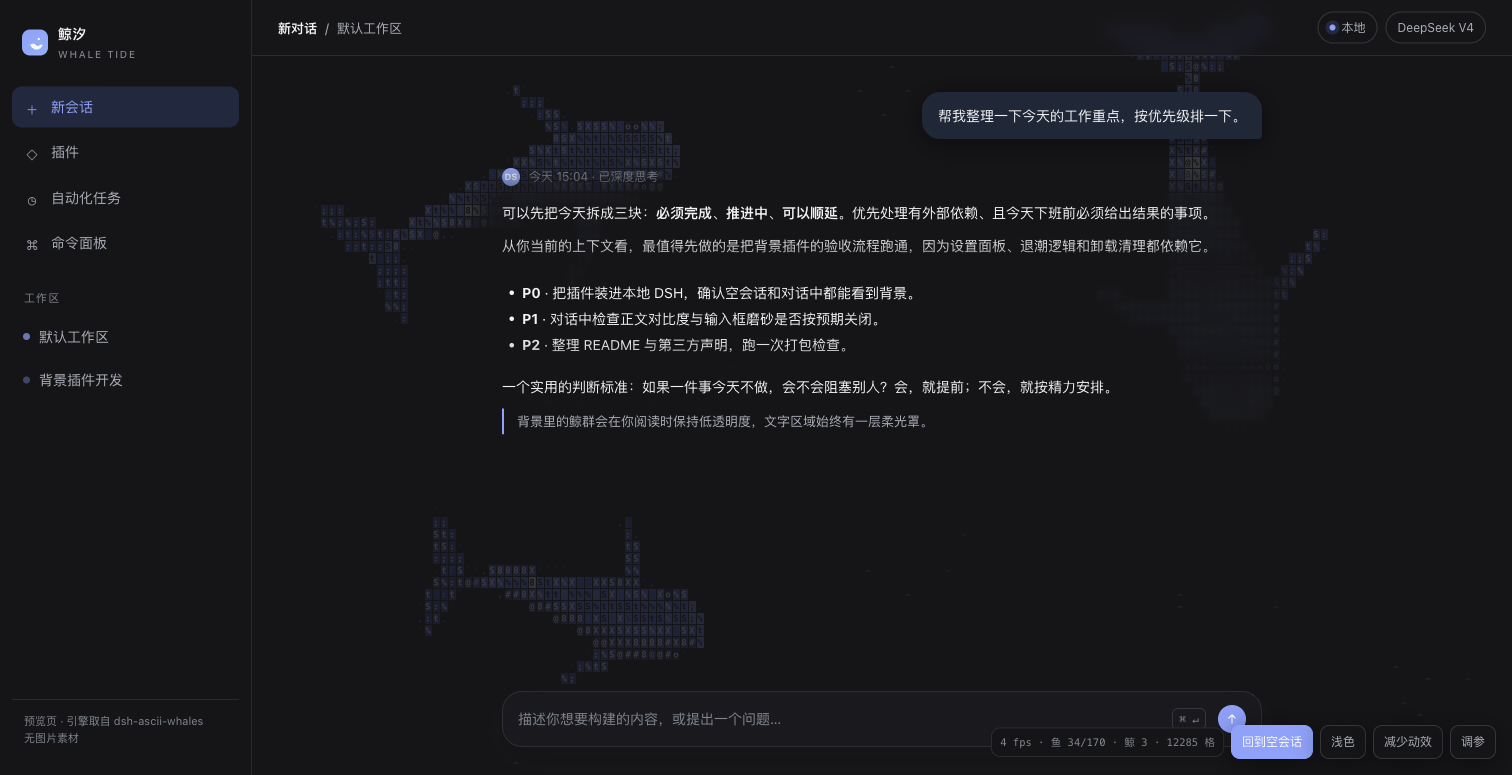
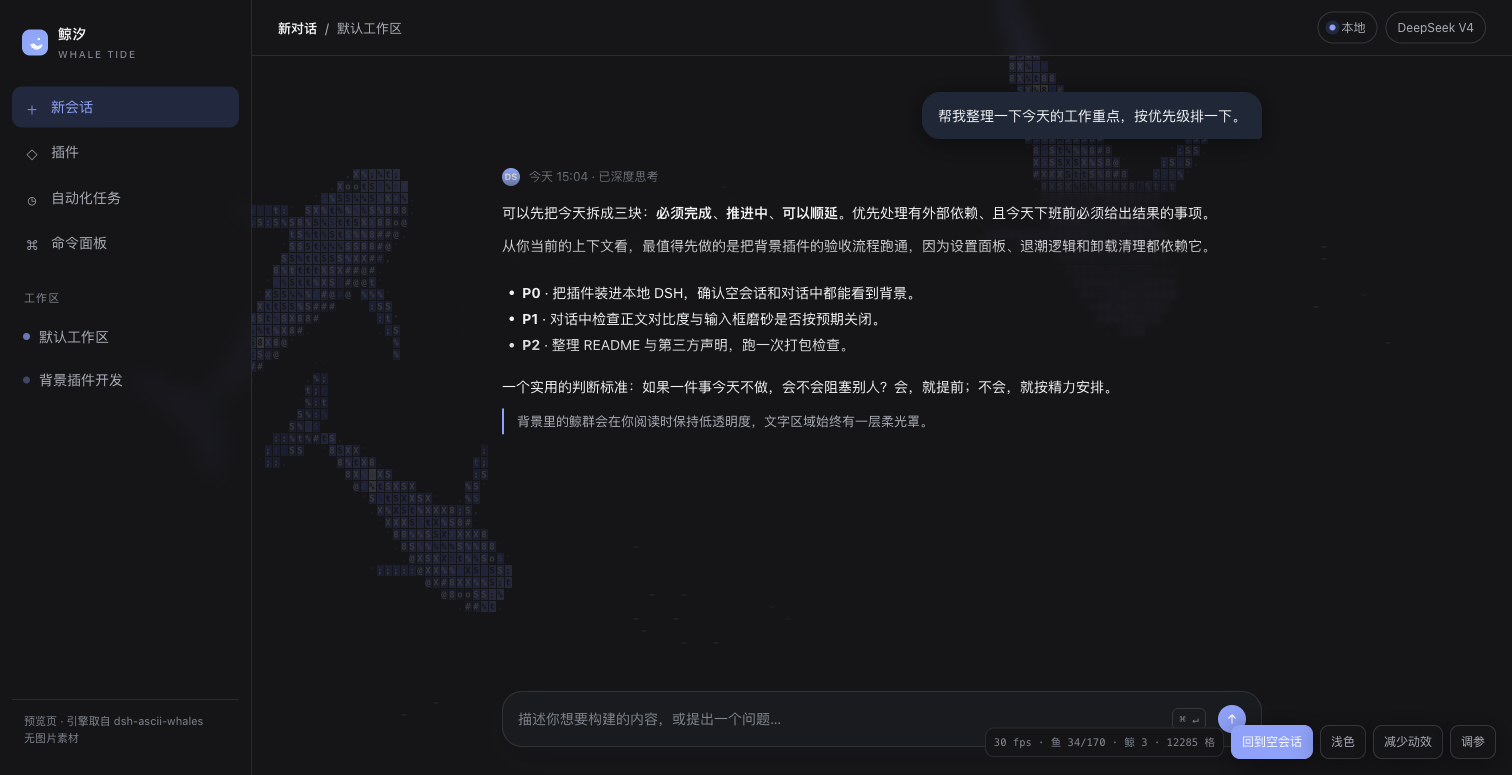
feat: conversation readability with dsh-quiet surface tokens and prose halo (0.3.0)

diff --git a/lib/client.js b/lib/client.js
@@ -2702,7 +2702,7 @@ var OceanEngine = class {
       hintGridOpacity: "背景网格透明度",
       hintFishCount: "模拟的鱼群总数",
       hintGlyphMode: "ASCII 用等宽字符，汉字用衬线汉字",
-      hintGlass: "空会话中给输入框加磨砂",
+      hintGlass: "空会话与对话中给输入框加磨砂",
       hintBlur: "磨砂模糊半径",
       hintGlassOpacity: "磨砂底色不透明度",
       reset: "恢复默认",
@@ -2771,7 +2771,7 @@ var OceanEngine = class {
       hintGridOpacity: "Background grid opacity.",
       hintFishCount: "Total simulated fish.",
       hintGlyphMode: "ASCII uses monospace; Hanzi uses a serif CJK face.",
-      hintGlass: "Frost the composer in an empty conversation.",
+      hintGlass: "Frost the composer in both the empty and conversation states.",
       hintBlur: "Backdrop blur radius.",
       hintGlassOpacity: "Tint opacity behind the composer.",
       reset: "Restore defaults",
@@ -2826,6 +2826,39 @@ var OceanEngine = class {
      * Styles
      * ===================================================================*/
     const CSS_ID = "dsh-whale-tide/client.css";
+
+    /**
+     * Surface tokens used while the tide is in. Same set as dsh-quiet 0.3.0:
+     * the conversation base goes transparent, cards become lightly frosted,
+     * and menus stay opaque for readability.
+     */
+    const TOKENS = {
+      "--dsw-alias-bg-base": { light: "transparent", dark: "transparent" },
+      "--dsw-alias-bg-layer-1": { light: "rgba(255,255,255,0.84)", dark: "rgba(23,24,28,0.88)" },
+      "--dsw-alias-bg-layer-2": { light: "#f7f8f9", dark: "#1b1d21" },
+      "--dsw-alias-bg-layer-3": { light: "#ffffff", dark: "#202226" },
+      "--dsw-specific-sidebar-fill": { light: "rgba(255,255,255,0.55)", dark: "rgba(20,21,24,0.60)" },
+      "--dsw-specific-bubble": { light: "rgba(237,243,254,0.92)", dark: "rgba(44,44,46,0.90)" },
+      "--dsw-alias-label-primary": { light: "#1f2329", dark: "#e6e7ea" },
+      "--dsw-alias-label-secondary": { light: "#5b6472", dark: "#a6acb6" },
+      "--dsw-alias-label-tertiary": { light: "#7c8593", dark: "#878d97" },
+      "--dsw-alias-label-caption": { light: "#98a0ac", dark: "#71767f" },
+      "--dsw-alias-border-l1": { light: "rgba(31,35,41,0.08)", dark: "rgba(230,231,234,0.08)" },
+      "--dsw-alias-border-l2": { light: "rgba(31,35,41,0.12)", dark: "rgba(230,231,234,0.12)" },
+      "--dsw-alias-border-l3": { light: "rgba(31,35,41,0.18)", dark: "rgba(230,231,234,0.16)" },
+      "--dsw-alias-interactive-bg-hover": { light: "rgba(31,35,41,0.05)", dark: "rgba(230,231,234,0.06)" },
+    };
+
+    function installTokens(ctx) {
+      try {
+        const theme = ctx && typeof ctx.get === "function" ? ctx.get("theme") : null;
+        if (theme && typeof theme.overrideTokens === "function" && typeof ctx.effect === "function") {
+          ctx.effect(() => theme.overrideTokens("dsh-whale-tide", TOKENS), "dsh-whale-tide: palette");
+        }
+      } catch (error) {
+        console.warn("[dsh-whale-tide] token override unavailable; CSS fallback in use");
+      }
+    }
     const CSS = `
 /* ── the fixed ocean layer ───────────────────────────────────────────── */
 .dsh-whale-tide-backdrop{
@@ -2902,14 +2935,54 @@ body[data-dsh-whale-tide="on"][data-dsh-whale-tide-ui="dark"][data-dsh-whale-tid
   text-shadow:0 0 2px rgba(12,12,15,.82),0 0 16px rgba(12,12,15,.62);
 }
 
-/* A soft halo on conversation text while the tide is out. */
-body[data-dsh-whale-tide="on"][data-dsh-whale-tide-phase="active"] [data-conversation-content][data-conversation-region="chat"],
-body[data-dsh-whale-tide="on"][data-dsh-whale-tide-phase="active"] [data-conversation-content] [data-conversation-region="chat"]{
-  text-shadow:0 0 1px rgba(255,255,255,.92),0 0 10px rgba(255,255,255,.78),0 0 26px rgba(255,255,255,.38);
+/* The conversation reading surface: a local halo panel behind each assistant
+   message block, the same mechanism as dsh-quiet's .dshr_text::before block.
+   It is applied by tagProse() in the backdrop controller, so it follows
+   re-renders and never touches message markup. */
+body[data-dsh-whale-tide="on"][data-dsh-whale-tide-phase="active"] .dshwt-prose{
+  position:relative;isolation:isolate;
 }
-body[data-dsh-whale-tide="on"][data-dsh-whale-tide-ui="dark"][data-dsh-whale-tide-phase="active"] [data-conversation-content][data-conversation-region="chat"],
-body[data-dsh-whale-tide="on"][data-dsh-whale-tide-ui="dark"][data-dsh-whale-tide-phase="active"] [data-conversation-content] [data-conversation-region="chat"]{
-  text-shadow:0 0 1px rgba(21,21,23,.92),0 0 10px rgba(21,21,23,.8),0 0 26px rgba(21,21,23,.5);
+body[data-dsh-whale-tide="on"][data-dsh-whale-tide-phase="active"] .dshwt-prose::before{
+  content:"";position:absolute;inset:-7px -12px;z-index:-1;border-radius:14px;
+  background:rgba(255,255,255,.70);
+  box-shadow:0 0 22px 12px rgba(255,255,255,.62);
+  -webkit-backdrop-filter:blur(2px);backdrop-filter:blur(2px);
+  pointer-events:none;
+}
+body[data-dsh-whale-tide="on"][data-dsh-whale-tide-ui="dark"][data-dsh-whale-tide-phase="active"] .dshwt-prose::before{
+  background:rgba(20,21,24,.72);
+  box-shadow:0 0 22px 12px rgba(20,21,24,.64);
+}
+/* A hairline shadow keeps un-tagged text (tool cards, actions) crisp without
+   the old 26px glow that made whole paragraphs look out of focus. */
+body[data-dsh-whale-tide="on"][data-dsh-whale-tide-phase="active"] [data-conversation-content][data-conversation-region="chat"]{
+  text-shadow:0 0 1px rgba(255,255,255,.55);
+}
+body[data-dsh-whale-tide="on"][data-dsh-whale-tide-ui="dark"][data-dsh-whale-tide-phase="active"] [data-conversation-content][data-conversation-region="chat"]{
+  text-shadow:0 0 1px rgba(10,10,12,.55);
+}
+
+/* ── composer and popovers while a conversation is active ──────────────
+   dsh-quiet keeps a light frosted composer in conversation instead of
+   handing it back to the native opaque surface. */
+body[data-dsh-whale-tide="on"][data-dsh-whale-tide-phase="active"][data-dsh-whale-tide-glass="on"] [data-composer-card]{
+  background:rgba(255,255,255,.74);
+  -webkit-backdrop-filter:blur(3px);backdrop-filter:blur(3px);
+}
+body[data-dsh-whale-tide="on"][data-dsh-whale-tide-ui="dark"][data-dsh-whale-tide-phase="active"][data-dsh-whale-tide-glass="on"] [data-composer-card]{
+  background:rgba(27,28,32,.78);
+}
+/* The "+" and command popover share this menu; it must stay opaque. */
+body[data-dsh-whale-tide="on"] [data-trigger-menu]{
+  --dsw-specific-menu:#fff;background-color:#fff;
+}
+body[data-dsh-whale-tide="on"][data-dsh-whale-tide-ui="dark"] [data-trigger-menu]{
+  --dsw-specific-menu:#1b1c20;background-color:#1b1c20;
+}
+/* 0.5px is one physical pixel at DPR>=2 (1px renders as two). */
+@media (-webkit-min-device-pixel-ratio:2),(min-resolution:2dppx){
+  body[data-dsh-whale-tide="on"] [data-composer-card],
+  body[data-dsh-whale-tide="on"] [data-trigger-menu]{border-width:.5px}
 }
 
 /* ── settings section ───────────────────────────────────────────────── */
@@ -3064,6 +3137,7 @@ body[data-dsh-whale-tide="on"][data-dsh-whale-tide-ui="dark"][data-dsh-whale-tid
       let motionQuery = null;
       let unsubscribe = null;
       let lastSettings = store.get();
+      let proseAt = 0;
 
       const themeService = (() => {
         try {
@@ -3148,6 +3222,35 @@ body[data-dsh-whale-tide="on"][data-dsh-whale-tide-ui="dark"][data-dsh-whale-tid
         ocean = null;
       }
 
+      /**
+       * Tag each assistant message wrapper with .dshwt-prose so CSS can put a
+       * local halo behind it (dsh-quiet's .dshr_text mechanism, without taking
+       * over message rendering). Works structurally: climb from any prose
+       * anchor to the child of [data-slot="conversation.chat.node"].
+       */
+      function tagProse() {
+        if (disposed) return;
+        const now = performance.now();
+        if (now - proseAt < 250) return;
+        proseAt = now;
+        const root = findChatNode();
+        if (!root) return;
+        const flow = root.querySelector('[data-slot="conversation.chat.flow"]') || root;
+        const anchors = flow.querySelectorAll("p, li, pre, table, blockquote, h1, h2, h3, h4, h5, h6");
+        for (const anchor of anchors) {
+          if (anchor.closest('[data-slot="conversation.chat.turnTail"]')) continue;
+          let cur = anchor;
+          while (cur && cur !== flow) {
+            const parent = cur.parentElement;
+            if (parent && parent.getAttribute && parent.getAttribute("data-slot") === "conversation.chat.node") {
+              if (!cur.classList.contains("dshwt-prose")) cur.classList.add("dshwt-prose");
+              break;
+            }
+            cur = parent;
+          }
+        }
+      }
+
       function syncAll() {
         if (disposed) return;
         const settings = store.get();
@@ -3167,6 +3270,7 @@ body[data-dsh-whale-tide="on"][data-dsh-whale-tide-ui="dark"][data-dsh-whale-tid
         if (ocean) ocean.setSettings(settings);
         if (ocean) ocean.setPhase(phase);
         if (ocean) ocean.setTheme(oceanScheme);
+        if (phase === "active") tagProse();
       }
 
       function applyPhase() {
@@ -3178,6 +3282,7 @@ body[data-dsh-whale-tide="on"][data-dsh-whale-tide-ui="dark"][data-dsh-whale-tid
           applyAttrs();
         }
         applyOpacity();
+        if (phase === "active") tagProse();
       }
 
       function onStoreChange() {
@@ -3286,6 +3391,7 @@ body[data-dsh-whale-tide="on"][data-dsh-whale-tide-ui="dark"][data-dsh-whale-tid
         if (unsubscribe) unsubscribe();
         destroyOcean();
         layer.remove();
+        for (const node of document.querySelectorAll(".dshwt-prose")) node.classList.remove("dshwt-prose");
         const body = document.body;
         body.style.removeProperty("--dshwt-blur");
         body.style.removeProperty("--dshwt-glass-opacity");
@@ -3482,6 +3588,7 @@ body[data-dsh-whale-tide="on"][data-dsh-whale-tide-ui="dark"][data-dsh-whale-tid
     function apply(ctx) {
       installStyles(ctx);
       installLocale(ctx);
+      installTokens(ctx);
 
       const store = createStore();
 

diff --git a/tools/preview.html b/tools/preview.html
@@ -92,6 +92,8 @@
   .stage[data-phase="hero"] .composer .box{background:rgba(255,255,255,var(--dshwt-glass-opacity,.45));backdrop-filter:blur(var(--dshwt-blur,14px)) saturate(1.12);-webkit-backdrop-filter:blur(var(--dshwt-blur,14px)) saturate(1.12);border-color:var(--glass-line)}
   html[data-theme="dark"] .stage[data-phase="hero"] .composer .box{background:rgba(24,24,26,var(--dshwt-glass-opacity,.45))}
   .stage[data-phase="hero"][data-glass="0"] .composer .box{background:var(--composer-bg);backdrop-filter:none;-webkit-backdrop-filter:none;border-color:var(--composer-line)}
+  .stage[data-phase="active"][data-glass="1"] .composer .box{background:rgba(255,255,255,.74);backdrop-filter:blur(3px);-webkit-backdrop-filter:blur(3px);border-color:var(--glass-line)}
+  html[data-theme="dark"] .stage[data-phase="active"][data-glass="1"] .composer .box{background:rgba(27,28,32,.78);border-color:rgba(255,255,255,.10)}
   .composer .box .ph{color:var(--ink3);flex:1;font-size:14px}
   .composer .box .kbd{font-size:11px;color:var(--ink3);border:1px solid var(--line2);border-radius:6px;padding:1px 6px;font-family:var(--mono)}
   .send{width:28px;height:28px;border-radius:50%;background:var(--accent);display:grid;place-items:center;color:#fff;flex:none}

diff --git a/lib/settings.js b/lib/settings.js
@@ -128,7 +128,7 @@ export const HINTS = Object.freeze({
   gridOpacity: "Background grid opacity.",
   fishCount: "Total simulated fish.",
   glyphMode: "ASCII uses monospace; Hanzi uses a serif CJK face.",
-  glass: "Frost the composer in an empty conversation.",
+  glass: "Frost the composer in both the empty and conversation states.",
   blur: "Backdrop blur radius.",
   glassOpacity: "Tint opacity behind the composer.",
 });

diff --git a/README.en.md b/README.en.md
@@ -34,9 +34,13 @@ the empty conversation the fish swim back in from the edges.
   limit; Reynolds boids with an `Int32Array` spatial hash. Fish scatter around
   the whale and the pointer, then regroup.
 - **High tide / ebb tide** — `hero`: full opacity, all fish, frosted composer.
-  `active` uses dsh-quiet's full-window ebb: opacity falls to 16%, 30% of the
-  fish remain, the composer returns to native, and conversation text gets a
-  soft inherited halo.
+  `active` uses dsh-quiet's full-window ebb: opacity falls to 16% and 30% of
+  the fish remain.
+- **Conversation readability** — 14 host surface tokens (bg layers, bubble,
+  borders, labels) become lightly translucent, each assistant message gets a
+  local `.dshwt-prose` halo panel (::before + 2px blur), the composer keeps a
+  0.74/0.78 frosted tint with 3px blur, popovers stay opaque and borders are
+  0.5px at DPR>=2.
 - **Configurable** — exactly eight settings, applied live, saved in
   `localStorage`, with a restore-defaults button.
 - **Light / dark** — following the DSH theme switches the backdrop colour,
@@ -69,11 +73,11 @@ From npm (once published):
 dsh plugin --profile <your-profile> add dsh-whale-tide
 ```
 
-From the 0.2.1 GitHub Release tarball:
+From the 0.3.0 GitHub Release tarball:
 
 ```bash
 dsh plugin --profile <your-profile> add \
-  https://github.com/MinEagle/dsh-whale-tide/releases/download/v0.2.1/dsh-whale-tide-0.2.1.tgz
+  https://github.com/MinEagle/dsh-whale-tide/releases/download/v0.3.0/dsh-whale-tide-0.3.0.tgz
 ```
 
 From a local checkout:
@@ -142,7 +146,7 @@ Four groups; changes apply live, persist in `localStorage`
 
 | Setting | Default | Range | Notes |
 | --- | --- | --- | --- |
-| Frosted composer | on | on / off | High tide only; disabled while active |
+| Frosted composer | on | on / off | Both states; lighter 0.74/0.78 tint while active |
 | Glass blur | 14 px | 0–64 | Backdrop blur radius |
 | Glass opacity | 0.45 | 0–1 | Tint opacity |
 
@@ -251,7 +255,7 @@ See [docs/design.md](docs/design.md).
   the `hero` state instead of breaking.
 - The UI exposes 24 settings from upstream; internal steering and hunger
   constants stay in the engine.
-- 0.2.1 is available as a GitHub Release tarball but not yet on the npm
+- 0.3.0 is available as a GitHub Release tarball but not yet on the npm
   registry; the repository also includes a local directory install and a
   packed `dist/*.tgz`.
 

diff --git a/docs/pitfalls.md b/docs/pitfalls.md
@@ -375,3 +375,34 @@ return luminance < .45 ? "dark" : "light";
 验证：真实 DSH 中把「字符风格」切到汉字后，canvas 字体为
 `"Songti SC","Noto Serif SC",…serif`，层属性 `data-glyph="hanzi"`，画布按方
 格重排（12285 → 11856 格），恢复默认后回到 ASCII 与等宽字体。
+
+## 27. 对话里「只透了一层」：气泡/卡片/输入框仍是白块（用户反馈）
+
+0.2.x 的退潮只做了两件事：`--dsw-alias-bg-base: transparent` + 整个 chat 容器
+`text-shadow`。实测对话中：
+
+- `--dsw-alias-bg-layer-1` 仍是 `#fff`，卡片、工具卡是不透明白块；
+- 用户气泡 `#edf3fe`、输入框 `rgb(255,255,255)` 都不透；
+- 26px 的白色 text-shadow 对大块蓝色鲸鱼几乎无效，文字反而发虚。
+
+0.3.0 按 dsh-quiet 的做法补齐三层：14 个主题 token（`theme.overrideTokens`，
+卸载还原）、每条助手消息的 `.dshwt-prose` 局部柔光片（::before + blur 2px）、
+对话中的 0.74/0.78 轻磨砂输入框与不透明弹层。
+
+验证：对话中 `--dsw-alias-bg-layer-1` = `rgba(255,255,255,0.84)`（深色
+`rgba(23,24,28,0.88)`），气泡 `rgba(237,243,254,0.92)`，composer
+`rgba(255,255,255,0.74)` + `blur(3px)`，`.dshwt-prose::before` 为白 0.70 +
+`blur(2px)`；关闭插件后全部回到原生值，`.dshwt-prose` 归零。
+
+## 28. 给消息挂 class 不能靠哈希类名
+
+DSH 的 class 是 CSS Modules 哈希（`XNZzAa_body`、`_markdown_rve47_5`），版本
+升级就会变。`tagProse()` 用结构定位：
+
+```
+p/li/pre/table/... → 向上找到 parent 带 data-slot="conversation.chat.node" 的那层
+```
+
+再挂 `.dshwt-prose`；只处理 `conversation.chat.flow` 内、跳过
+`conversation.chat.turnTail`。MutationObserver 监听 body 子树 + 250ms 节流，
+流式新增的段落也能在 250ms 内被覆盖。

diff --git a/docs/design.md b/docs/design.md
@@ -1,6 +1,6 @@
 # 设计说明
 
-本文说明鲸汐（Whale Tide）0.2.0 的架构、相位模型、渲染流水线、性能取舍与验证边界。
+本文说明鲸汐（Whale Tide）0.3.0 的架构、相位模型、渲染流水线、性能取舍与验证边界。
 需求与验收见仓库根目录 README；这里记录“为什么这样做”。
 
 ## 1. 目标与非目标
@@ -293,6 +293,24 @@ null；代码同时兼容“同节点”与“嵌套”两种形式。
 
 背景底色、侧栏 token、正文 text-shadow、磨砂底色、画布调色板都按这两个属性
 分浅/深两套；切换时只更新属性与引擎 `setAppearance`，不重建引擎。
+
+### 4.9 对话可读性（0.3.0）
+
+对话界面按 dsh-quiet 的三层机制处理，但都不接管消息渲染：
+
+1. **主题 token**（`theme.overrideTokens`，卸载自动还原）：`bg-base` 透明，
+   `bg-layer-1` 0.84/0.88，`bg-layer-2/3` 保持不透明（弹层可读），sidebar
+   0.55/0.60，气泡 0.92/0.90，label 与 border 全套。共 14 项。
+2. **正文柔光片**：`tagProse()` 在每个 `[data-slot="conversation.chat.node"]`
+   的直接子 wrapper 上挂 `.dshwt-prose`；CSS 用 `::before`（inset -7/-12、
+   圆角 14、白 0.70 / 深 0.72、blur 2px）做局部柔光。按结构找节点，不依赖
+   哈希类名；MutationObserver + 250ms 节流跟随流式输出。
+3. **输入框与弹层**：对话中 `[data-composer-card]` 0.74/0.78 + blur 3px，
+   `[data-trigger-menu]` 强制不透明，DPR≥2 边框 0.5px。
+
+与 0.2.x 的区别：0.2.x 只把 `bg-base` 透明 + 给整个 chat 容器加
+`text-shadow`，导致气泡、卡片、输入框仍是不透明白块，文字阴影对大块蓝色
+鲸鱼也几乎无效。
 
 ## 5. 性能取舍
 

diff --git a/docs/releases/0.3.0.md b/docs/releases/0.3.0.md
@@ -1,0 +1,23 @@
+# Whale Tide 0.3.0
+
+Conversation readability, following dsh-quiet's three-layer approach.
+
+- **Surface tokens**: 14 host tokens now switch to light frosted values —
+  `bg-base` transparent, `bg-layer-1` 0.84/0.88, sidebar 0.55/0.60, bubble
+  0.92/0.90, labels and borders included. Menus stay opaque. All overrides are
+  registered through `theme.overrideTokens` and removed on unload.
+- **Prose halo**: every assistant message wrapper is tagged `.dshwt-prose` by
+  structure (no hashed class names) and gets a local ::before halo panel with
+  2px blur, replacing the old full-container 26px text-shadow.
+- **Composer**: the frosted composer now stays on in conversation at
+  0.74/0.78 with 3px blur; `[data-trigger-menu]` stays opaque; borders are
+  0.5px at DPR>=2.
+- Verified in the live desktop app in both light and dark, and cleanup leaves
+  no tokens, classes, styles or body attributes behind.
+
+Install:
+
+```bash
+dsh plugin --profile <profile> add \
+  https://github.com/MinEagle/dsh-whale-tide/releases/download/v0.3.0/dsh-whale-tide-0.3.0.tgz
+```

diff --git a/docs/RELEASE.md b/docs/RELEASE.md
@@ -1,4 +1,4 @@
-# Release 0.2.1
+# Release 0.3.0
 
 Checklist for publishing Whale Tide.
 
@@ -17,7 +17,7 @@ Expected: 16 tests pass; the client parses; `package.json` has no
 
 ```bash
 npm pack --pack-destination dist
-tar -tzf dist/dsh-whale-tide-0.2.1.tgz | sort
+tar -tzf dist/dsh-whale-tide-0.3.0.tgz | sort
 ```
 
 The tarball must contain:
@@ -51,11 +51,11 @@ machine with access and the same `package.json`/`files` list.
 ## 4. GitHub release
 
 ```bash
-git tag v0.2.1
-git push origin v0.2.1
-gh release create v0.2.1 dist/dsh-whale-tide-0.2.1.tgz \
-  --title "Whale Tide 0.2.1" \
-  --notes-file docs/releases/0.2.1.md
+git tag v0.3.0
+git push origin v0.3.0
+gh release create v0.3.0 dist/dsh-whale-tide-0.3.0.tgz \
+  --title "Whale Tide 0.3.0" \
+  --notes-file docs/releases/0.3.0.md
 ```
 
 The release body should link:
@@ -68,7 +68,7 @@ The release body should link:
 ## 5. Post-publish smoke test
 
 ```bash
-dsh plugin --profile <profile> add dsh-whale-tide@0.2.1
+dsh plugin --profile <profile> add dsh-whale-tide@0.3.0
 ```
 
 Then:
